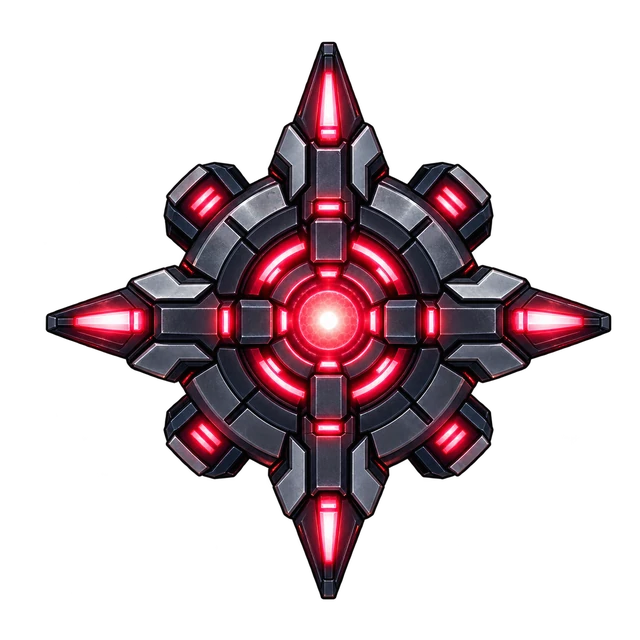
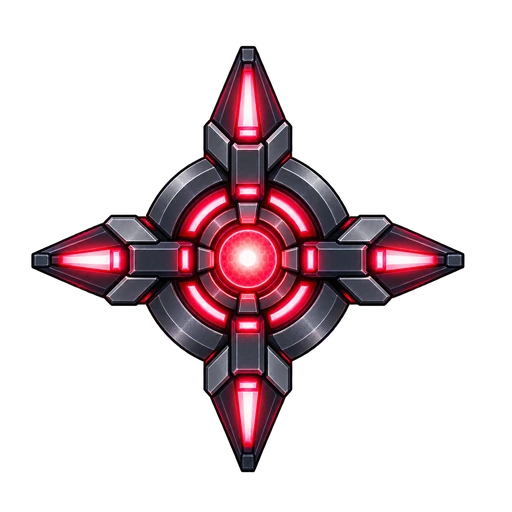
feat: apply final gameplay art pass

Changed region(s): [[0.0625, 0.0625, 0.9688, 0.9375]]

diff --git a/src/presentation/ReactorAssetView.ts b/src/presentation/ReactorAssetView.ts
@@ -1,25 +1,23 @@
-import { Container, Graphics, Sprite } from 'pixi.js';
+import { Container, Sprite } from 'pixi.js';
 import {
   calculateReactorAssetPulse,
   getReactorAssetVisual,
 } from './reactorAssetVisual';
 
 const REACTOR_ASSET_URL = 'assets/reactor.webp';
-const HALO_COLOR = 0xff8b1f;
 
 export class ReactorAssetView {
   public readonly view = new Container();
 
-  private readonly halo = new Graphics();
   private readonly pulseContainer = new Container();
   private readonly sprite = Sprite.from(REACTOR_ASSET_URL);
   private elapsedSeconds = 0;
-  private pulseAmplitude = 0.02;
+  private pulseAmplitude = 0.015;
 
   public constructor() {
     this.sprite.anchor.set(0.5);
     this.pulseContainer.addChild(this.sprite);
-    this.view.addChild(this.halo, this.pulseContainer);
+    this.view.addChild(this.pulseContainer);
   }
 
   public update(deltaSeconds: number): void {
@@ -38,12 +36,5 @@ export class ReactorAssetView {
     this.sprite.width = visual.spriteSize;
     this.sprite.height = visual.spriteSize;
     this.pulseContainer.scale.set(1);
-
-    this.halo
-      .clear()
-      .circle(0, 0, visual.outerHaloRadius)
-      .fill({ color: HALO_COLOR, alpha: visual.outerHaloAlpha })
-      .circle(0, 0, visual.innerHaloRadius)
-      .fill({ color: HALO_COLOR, alpha: visual.innerHaloAlpha });
   }
 }

diff --git a/src/presentation/reactorAssetVisual.ts b/src/presentation/reactorAssetVisual.ts
@@ -3,31 +3,19 @@ const PULSE_PERIOD_SECONDS = 3.4;
 
 export interface ReactorAssetVisual {
   spriteSize: number;
-  innerHaloRadius: number;
-  outerHaloRadius: number;
-  innerHaloAlpha: number;
-  outerHaloAlpha: number;
   pulseAmplitude: number;
 }
 
-export const getReactorAssetVisual = (size: number): ReactorAssetVisual => {
-  const safeSize = Math.max(0, size);
-
-  return {
-    spriteSize: safeSize,
-    innerHaloRadius: safeSize * 0.55,
-    outerHaloRadius: safeSize * 0.72,
-    innerHaloAlpha: 0.055,
-    outerHaloAlpha: 0.025,
-    pulseAmplitude: 0.02,
-  };
-};
+export const getReactorAssetVisual = (size: number): ReactorAssetVisual => ({
+  spriteSize: Math.max(0, size),
+  pulseAmplitude: 0.015,
+});
 
 export const calculateReactorAssetPulse = (
   elapsedSeconds: number,
-  pulseAmplitude = 0.02,
+  pulseAmplitude = 0.015,
 ): number => {
-  const safeAmplitude = Math.max(0, Math.min(0.03, pulseAmplitude));
+  const safeAmplitude = Math.max(0, Math.min(0.025, pulseAmplitude));
   const phase = (Math.max(0, elapsedSeconds) / PULSE_PERIOD_SECONDS) * TAU;
 
   return 1 + Math.sin(phase) * safeAmplitude;

diff --git a/tests/approvedVisualAssets.test.ts b/tests/approvedVisualAssets.test.ts
@@ -1,0 +1,26 @@
+import assert from 'node:assert/strict';
+import { createHash } from 'node:crypto';
+import { readFileSync } from 'node:fs';
+import test from 'node:test';
+
+const approvedAssets = {
+  'space-background.webp': '9c96bdbba81444760ec13ddc3e3fdc1a9341dbcc',
+  'reactor.webp': 'e8a7a64db24dc0a70440b1deab1a58422302de76',
+  'player.webp': '482f9cb6f6bc5a4899242680b1e15f07e664b75b',
+  'obstacle.webp': '4ef916dd1cb4bbff918eec30acc20d840a9200cd',
+  'shard.webp': '2b070d35ab3652b43334d6a7d7b9b864a331bd15',
+} as const;
+
+for (const [name, expectedSha] of Object.entries(approvedAssets)) {
+  test(`${name} uses the approved visual revision`, () => {
+    const bytes = readFileSync(
+      new URL(`../public/assets/${name}`, import.meta.url),
+    );
+    const gitBlob = createHash('sha1')
+      .update(`blob ${bytes.length}\0`)
+      .update(bytes)
+      .digest('hex');
+
+    assert.equal(gitBlob, expectedSha);
+  });
+}

diff --git a/tests/reactorAssetVisual.test.ts b/tests/reactorAssetVisual.test.ts
@@ -5,17 +5,17 @@ import {
   getReactorAssetVisual,
 } from '../src/presentation/reactorAssetVisual.ts';
 
-test('reactor asset presentation stays visually restrained', () => {
+test('reactor delegates soft halo rendering to the authored asset', () => {
   const visual = getReactorAssetVisual(300);
 
-  assert.equal(visual.spriteSize, 300);
-  assert.ok(visual.outerHaloAlpha <= 0.06);
-  assert.ok(visual.innerHaloAlpha <= 0.08);
-  assert.ok(visual.pulseAmplitude <= 0.03);
+  assert.deepEqual(visual, {
+    spriteSize: 300,
+    pulseAmplitude: 0.015,
+  });
 
   for (const elapsed of [0, 0.85, 1.7, 2.55, 3.4]) {
     const pulse = calculateReactorAssetPulse(elapsed, visual.pulseAmplitude);
-    assert.ok(pulse >= 0.97);
-    assert.ok(pulse <= 1.03);
+    assert.ok(pulse >= 0.975);
+    assert.ok(pulse <= 1.025);
   }
 });
